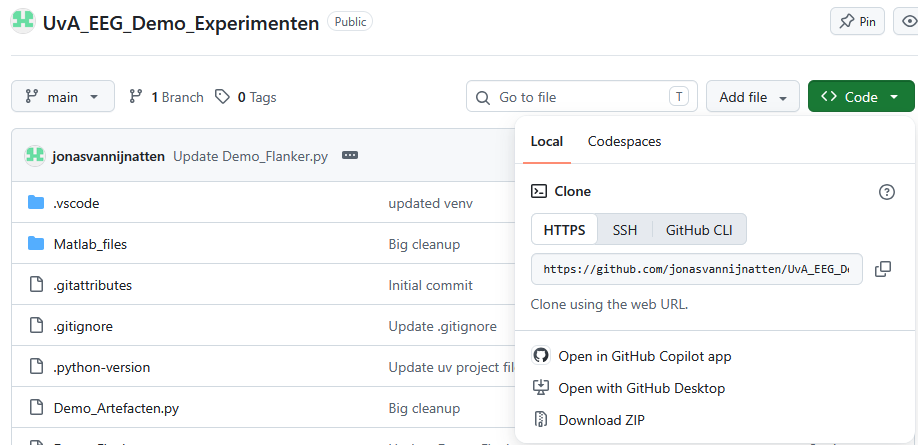
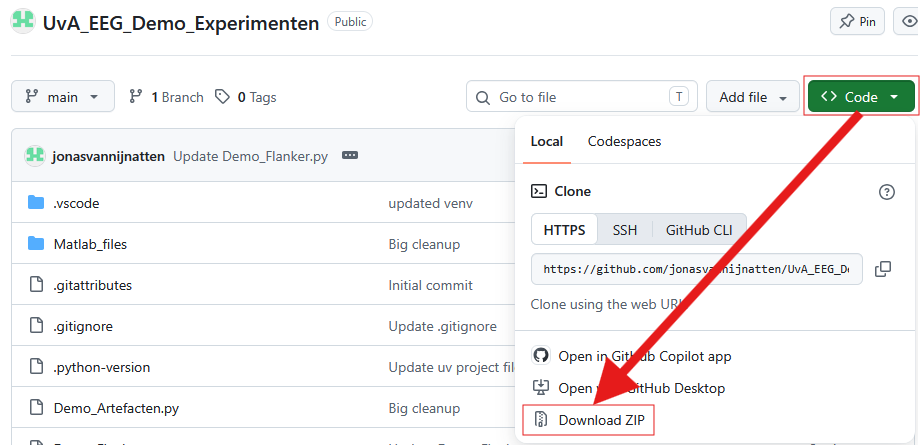
Updated README

diff --git a/README.md b/README.md
@@ -6,15 +6,16 @@ MacOS & Linux:
 `curl -LsSf https://astral.sh/uv/install.sh | sh`
 
 
-# 2. Download .zip file from Github
-Download the project as .zip file
-![image](files/Users/jzhang/Desktop/Isolated.png)
-Unzip the file in a handy place
+# 2. Download .zip file from Github  
+* Download the project as .zip file  
+* Unzip the file in a handy place  
+  
+![image](download_zip.png)  
 
 # 3. Open VS Code in the correct folder
-Open VS Code
-Click File > Open Folder
-Select the folder where you just unzipped the project
+* Open VS Code  
+* Click File > Open Folder  
+* Select the folder where you just unzipped the project  
 
 # 4. Sync environment as intended by instructor
 Open a terminal in VS code and run:  
